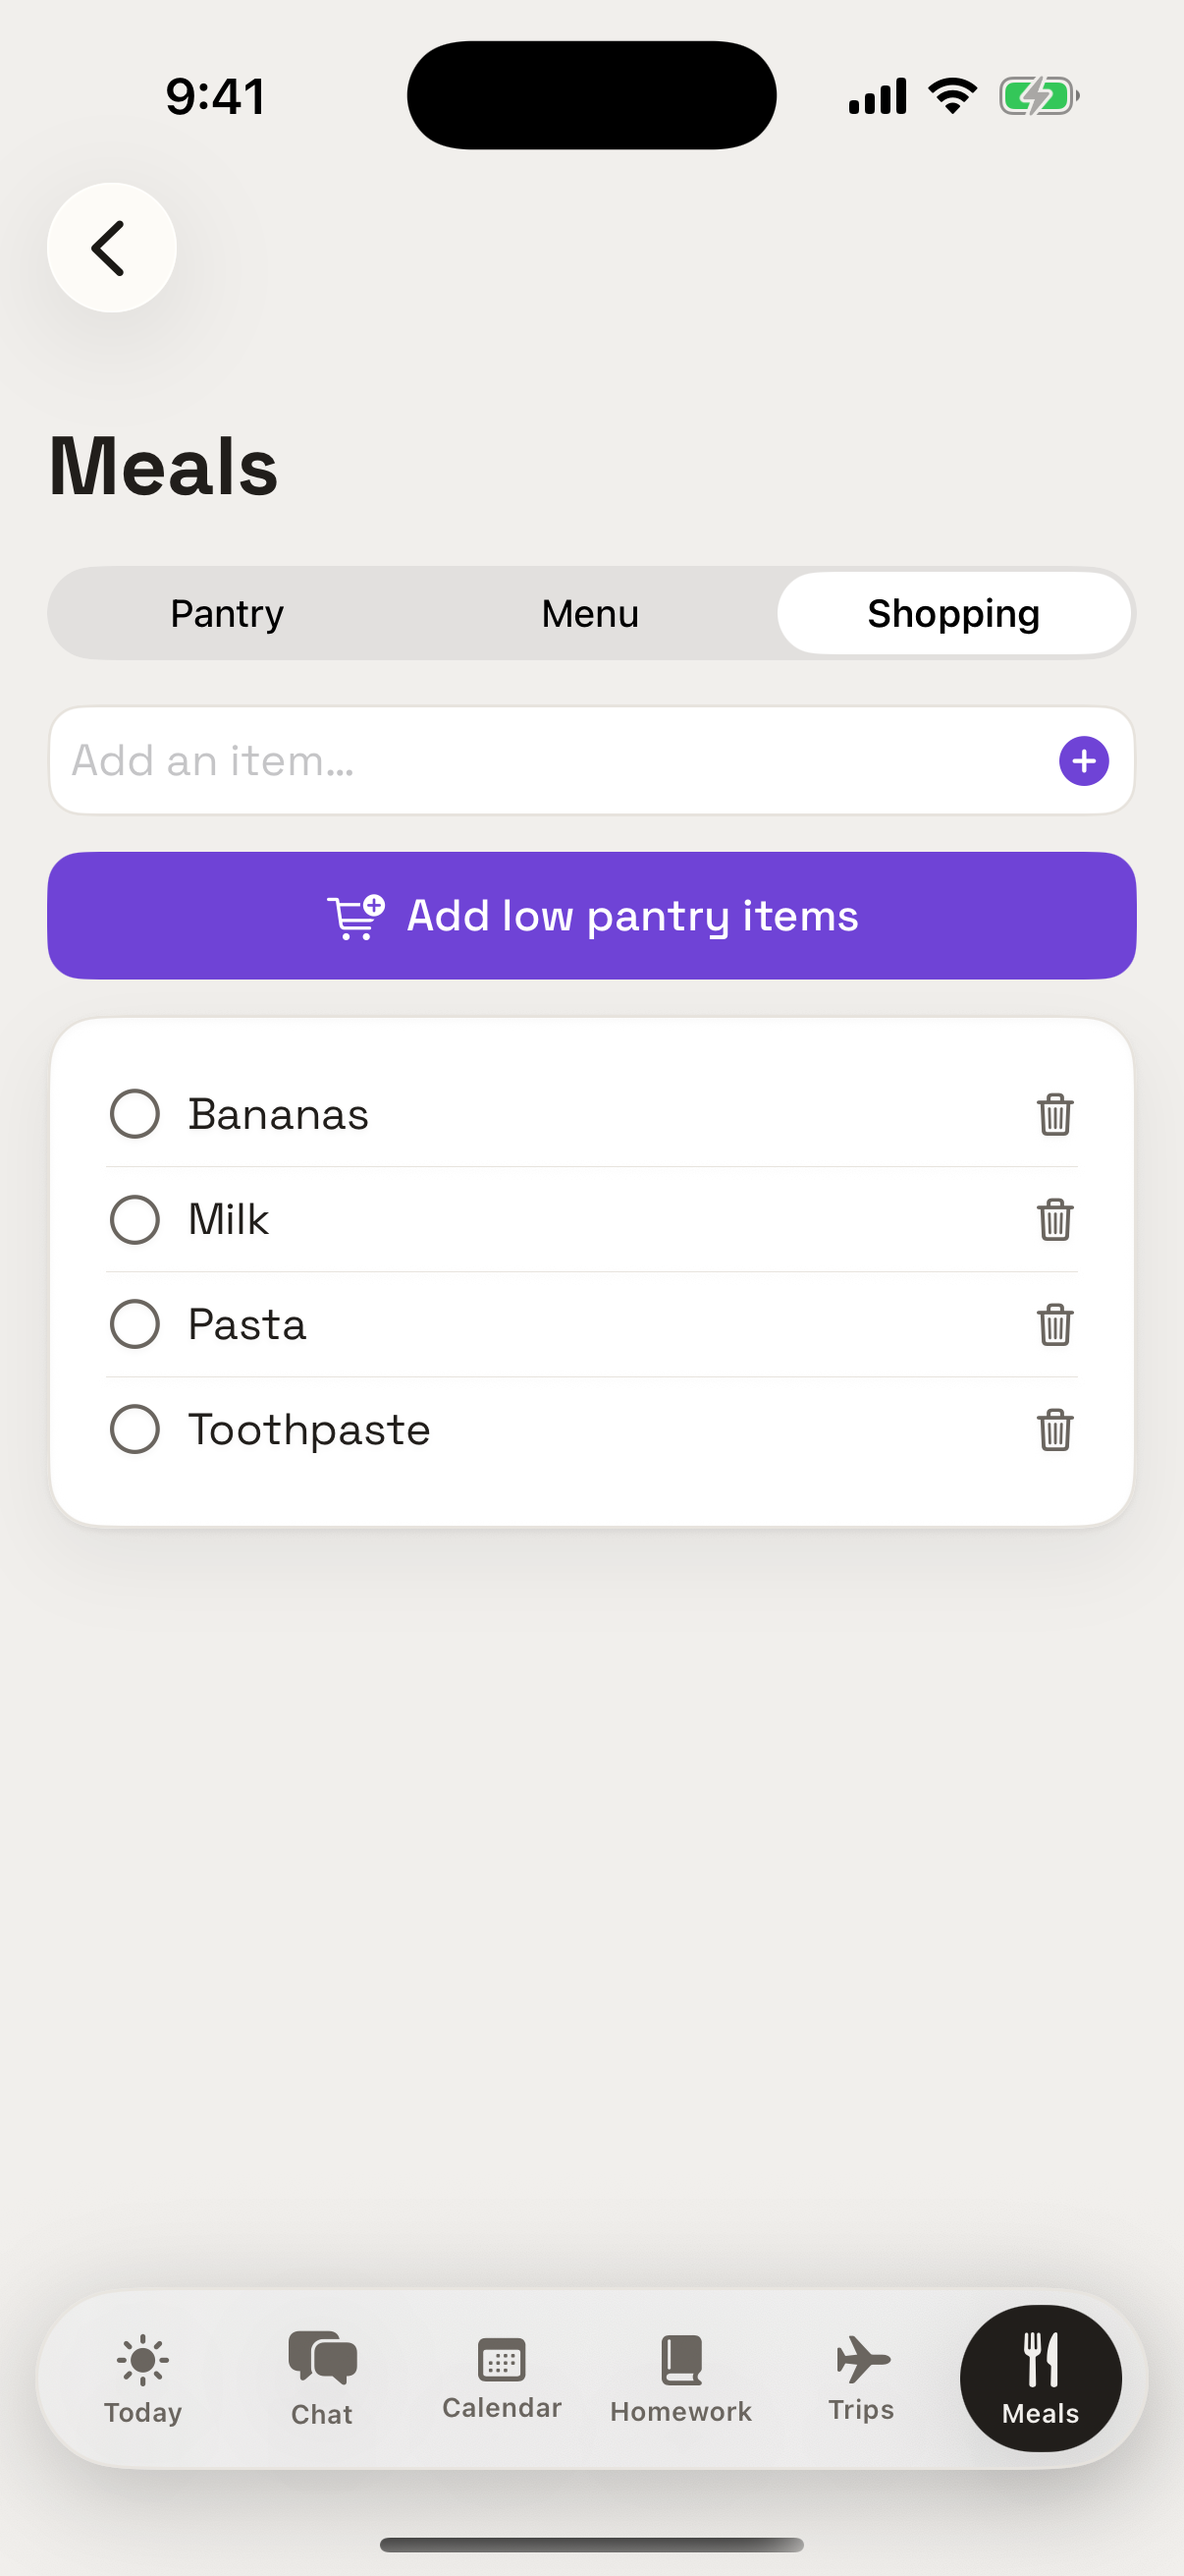
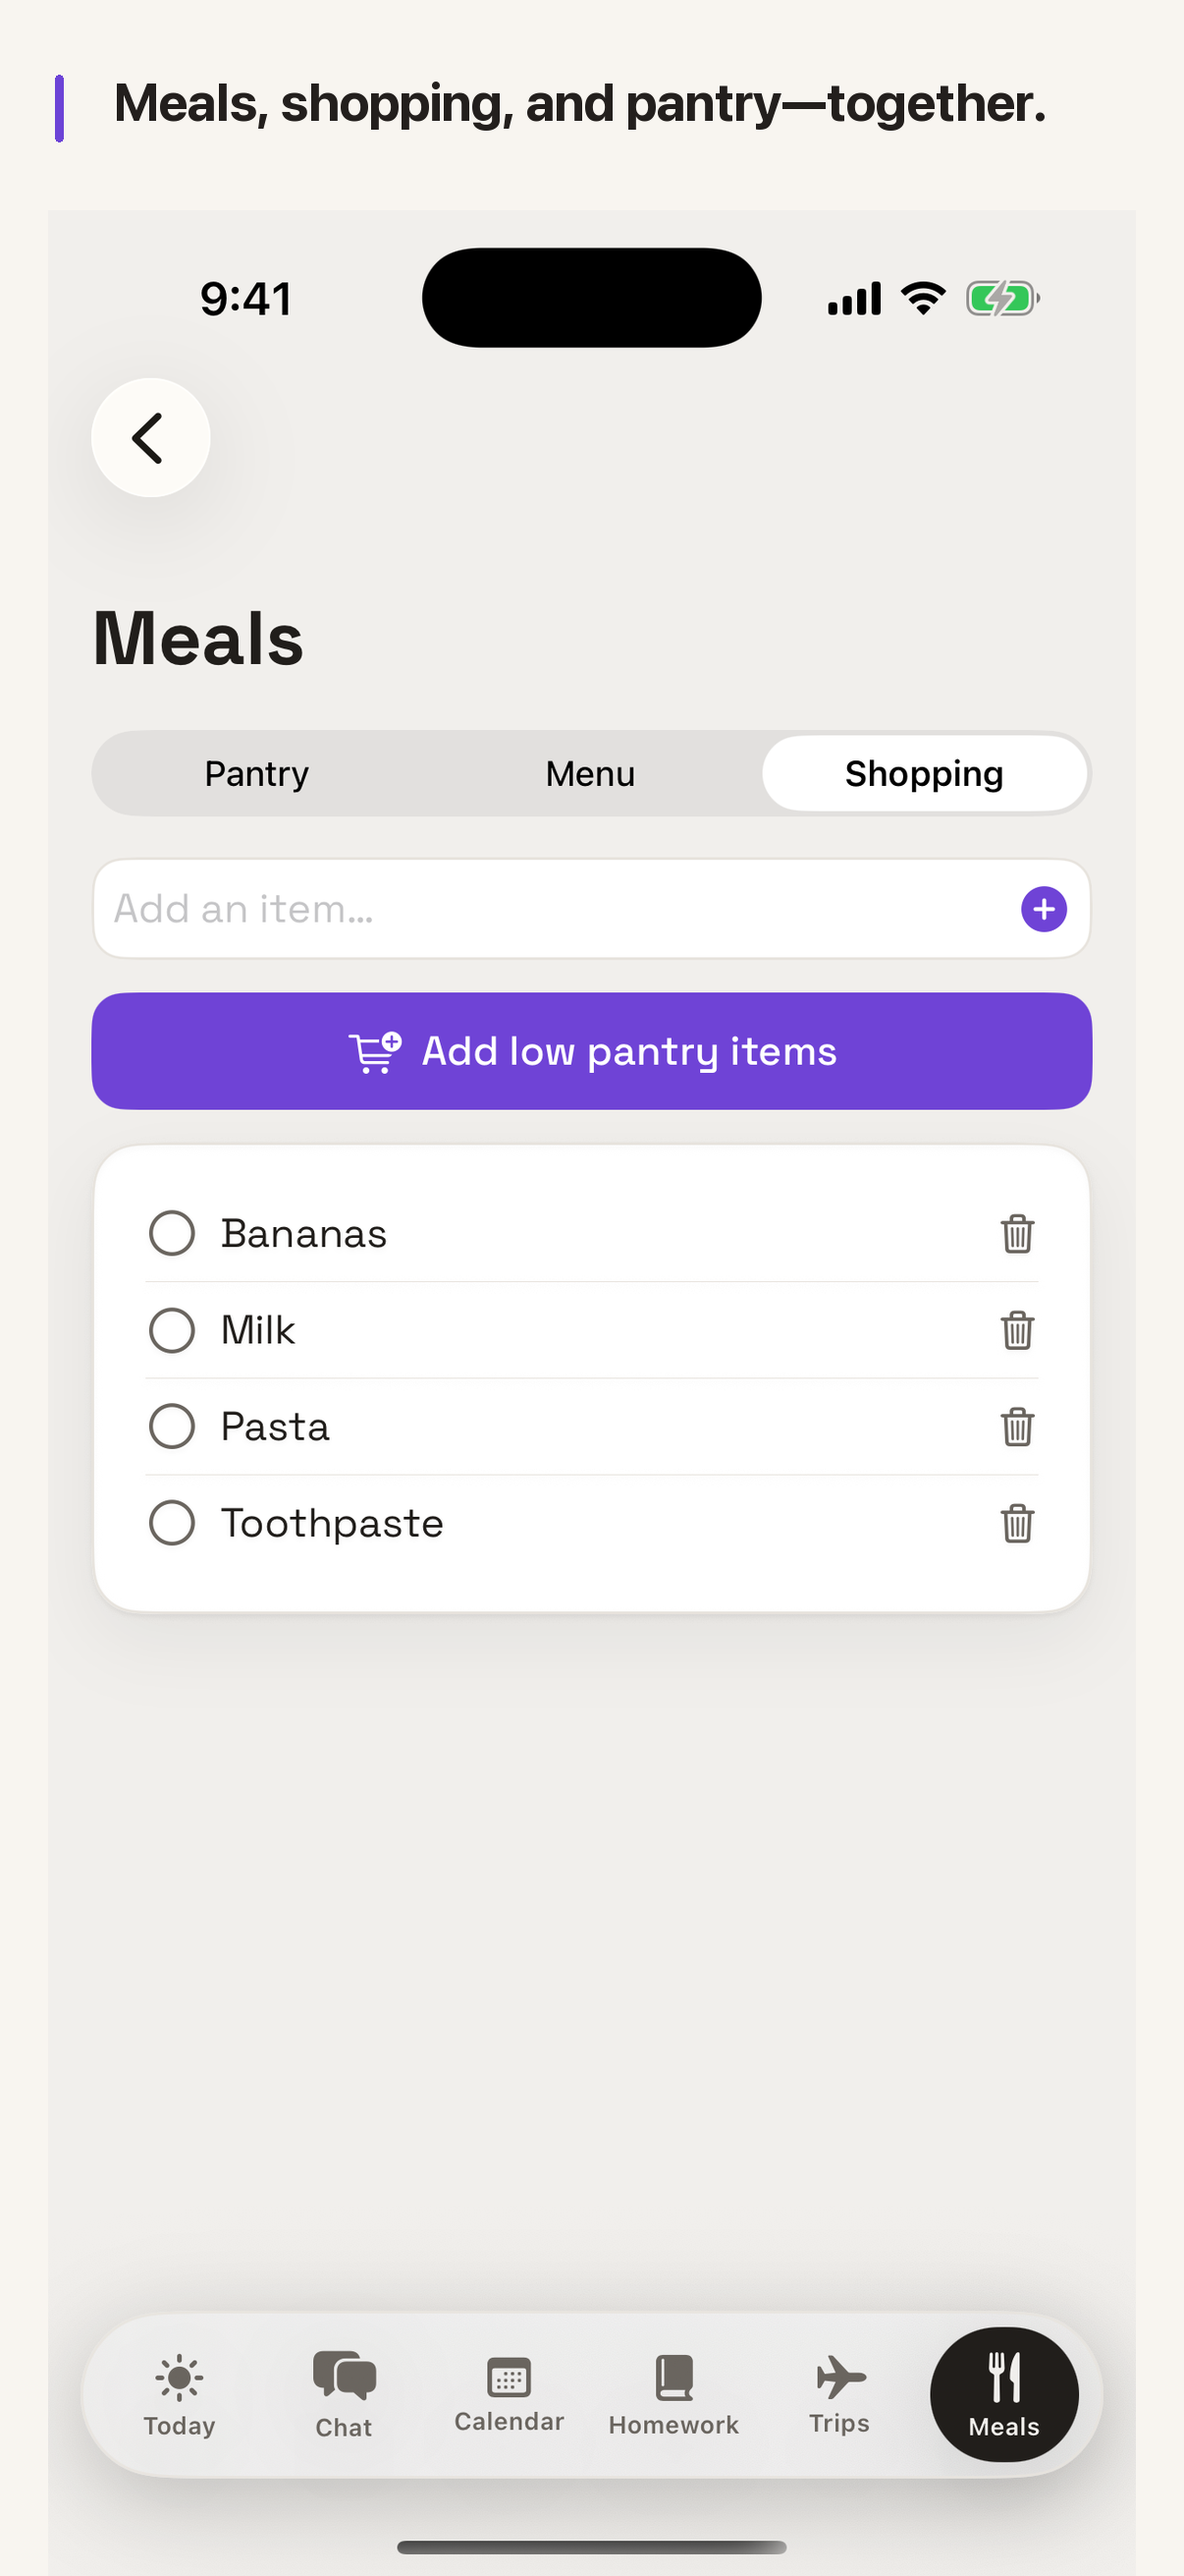
compose App Store screenshots with taglines

diff --git a/AppStoreAssets/QA/manifest.md b/AppStoreAssets/QA/manifest.md
@@ -1,49 +1,82 @@
 # FamETC App Store screenshot manifest
 
-## Capture record
+## Task record
 
-- Capture window: 2026-08-08 23:40–2026-08-09 00:01 ICT (Asia/Bangkok).
-- Repository baseline: `d9266e78c964961a8a1cf5fddd6a6bd0e4e72333` (`main`, synchronized with `origin/main` before capture).
-- Toolchain: Xcode 26.5, build 17F42.
-- Runtimes: iOS 26.5 (23F77) and watchOS 26.5 (23T570).
+- Composition task date: 2026-08-09 (ICT, Asia/Bangkok).
+- Composition starting commit: `b7ec7c8c76c45090813ee0fba6cfa8e038b8d636` (`main`); the worktree was clean before composition.
+- Scope: generated App Store screenshot assets, raw-source preservation, and AppStoreAssets QA evidence only. Product source, Xcode project, server, validators, and unrelated files were not changed.
+- Original capture window: 2026-08-08 23:40–2026-08-09 00:01 ICT (Asia/Bangkok).
+- Original capture baseline: `d9266e78c964961a8a1cf5fddd6a6bd0e4e72333` (`main`, recorded with the accepted raw captures).
+- Toolchain: Xcode 26.5, build 17F42; runtimes iOS 26.5 (23F77) and watchOS 26.5 (23T570).
 - Language: English; orientation: portrait.
-- Apple source: [App Store Connect screenshot specifications](https://developer.apple.com/help/app-store-connect/reference/app-information/screenshot-specifications), checked 2026-08-08. The native simulator sizes below are accepted sizes for the current device classes; Apple requires opaque output and allows one to ten screenshots per localization.
+
+## Current Apple requirements verified
+
+The official Apple sources were checked on 2026-08-09:
+
+- [Screenshot specifications](https://developer.apple.com/help/app-store-connect/reference/app-information/screenshot-specifications) — the selected iPhone 6.3-inch, iPad 13-inch, and Apple Watch Series 11 wells accept the dimensions below; screenshots must be opaque and Apple accepts one to ten screenshots.
+- [Upload app previews and screenshots](https://developer.apple.com/help/app-store-connect/manage-app-information/upload-app-previews-and-screenshots) — upload and ordering guidance.
+- [App Review Guidelines](https://developer.apple.com/app-store/review/guidelines/) — truthful product presentation and privacy review.
 
 ## Devices and dimensions
 
-| Platform | Simulator | UDID | Final dimensions | Count |
+| Platform | Simulator | UDID | Upload dimensions | Count |
 | --- | --- | --- | ---: | ---: |
 | iPhone | iPhone 17 Pro | `2E9EDCE7-0D8A-4A97-AB1A-F0C90C497954` | 1206 × 2622 | 4 |
 | iPad | iPad Pro 13-inch (M5) | `497C0B29-EF98-4835-9DF0-A5BAB2AD3318` | 2064 × 2752 | 4 |
 | watchOS | Apple Watch Series 11 (46mm) | `D3114908-7653-457F-A5CF-E315D071245F` | 416 × 496 | 3 |
 
-All final files are direct simulator screenshots with no crop, resize, or aspect-ratio change. `simctl` emitted RGBA PNGs; the final files were converted to opaque 8-bit RGB PNGs without resizing.
+The upload directories contain only the composed PNGs. Every composed canvas is opaque 8-bit RGB at the exact target dimensions. The source app frame is fitted with contain semantics below the tagline; it is never cropped, covered, stretched, or otherwise edited. The raw simulator captures remain available at the paths in the next section.
 
-## Final upload sets
+## Raw source preservation
+
+The accepted raw captures were copied before composition and are preserved byte-for-byte here:
+
+- iPhone source set: `AppStoreAssets/Raw/iPhone/6.3-inch/`
+- iPad source set: `AppStoreAssets/Raw/iPad/13-inch/`
+- watchOS source set: `AppStoreAssets/Raw/watchOS/Series11/`
+
+Each raw file has the same SHA-256 as its pre-composition upload-directory predecessor. The final files are derived from these raw frames by a contain fit only, with the original pixels retained in the preserved source set.
+
+## Composition system
+
+- Canvas background: warm off-white `#F8F5F0`.
+- Tagline: dark `#231F1D`, SF system font (`SFNS.ttf`) at variable weight 700, left aligned with a purple `#6C43D6` vertical accent.
+- The authentic app screenshot occupies the lower canvas and is centered horizontally. Text is above it with a dedicated margin; watchOS taglines use a necessary two-line wrap for the 416 × 496 well.
+
+| Platform | Raw frame | Contain-fit frame | Scale | Position in final canvas |
+| --- | ---: | ---: | ---: | ---: |
+| iPhone | 1206 × 2622 | 1108 × 2408 | 0.918383 | x=49, y=214 |
+| iPad | 2064 × 2752 | 1893 × 2524 | 0.917151 | x=85, y=228 |
+| watchOS | 416 × 496 | 350 × 417 | 0.840726 | x=33, y=79 |
+
+## Final upload sets and locked taglines
 
 ### iPhone — `AppStoreAssets/iPhone/6.3-inch/`
 
-- `01-today.png` — Today overview: family actions, schedule, homework due, and Daily 5.
-- `02-calendar.png` — Calendar month view with pickup, homework, meal, and library event.
-- `03-shopping.png` — Meals → Shopping with the four-item family list.
-- `04-chat.png` — Family Chat with homework, pickup, dinner, and shopping coordination.
+- `01-today.png` — “Everything your family needs. Right now.”
+- `02-calendar.png` — “See the whole family week at a glance.”
+- `03-shopping.png` — “Meals, shopping, and pantry—together.”
+- `04-chat.png` — “Turn family chat into a plan.”
 
 ### iPad — `AppStoreAssets/iPad/13-inch/`
 
-- `01-today.png` — Today overview in the iPad navigation rail layout.
-- `02-calendar.png` — Calendar month view with the seeded family schedule.
-- `03-shopping.png` — Meals → Shopping with the four-item family list.
-- `04-chat.png` — Authentic portrait Chat slide-over over the Today surface.
+- `01-today.png` — “One calm place to run the family.”
+- `02-calendar.png` — “The family calendar, without the juggling.”
+- `03-shopping.png` — “From menu to shopping list, in one place.”
+- `04-chat.png` — “Everyone stays in the loop.”
 
 ### watchOS — `AppStoreAssets/watchOS/Series11/`
 
-- `01-my-next-urgent.png` — My next top position with connection status and Urgent actions.
-- `02-homework.png` — My next scroll position centered on both homework items.
-- `03-shopping.png` — My next scroll position centered on the Shopping section.
+- `01-my-next-urgent.png` — “The next important thing, at a glance.”
+- `02-homework.png` — “Homework reminders, right when they matter.”
+- `03-shopping.png` — “Carry the family list on your wrist.”
 
-The shipped iOS Homework tab is currently a placeholder; the iPhone/iPad narrative uses the real Today Homework due card and real Calendar/Chat/Shopping surfaces instead. The watch screenshots use the shipped My next, Urgent, Homework, and Shopping sections.
+The watchOS strings are line-wrapped only at word boundaries in the rendered 416 × 496 canvases; the locked wording is unchanged. The iPhone and iPad taglines render on one line.
 
-## Privacy-safe fixture
+The iOS Homework tab is currently a placeholder, so the iPhone/iPad narrative uses the real Today Homework due card and real Calendar, Chat, and Shopping surfaces. The watch screenshots use the shipped My next, Urgent, Homework, and Shopping sections.
+
+## Privacy-safe source fixture and provenance
 
 The simulator-only local fixture was stored outside the repository at `/tmp/fametc-appstore-qa-data` and served only from `http://127.0.0.1:4100` / `http://localhost:4100`. It used generic fictional content:
 
@@ -54,23 +87,16 @@ The simulator-only local fixture was stored outside the repository at `/tmp/fame
 - Generic coordination: `School pickup`, `Library books due`, `Pasta night`, and non-personal family chat messages.
 - Fixture dates were anchored to 2026-08-08 so the narrative remained deterministic.
 
-The final watch screenshots were captured from the original watch target source after pairing through its shipped pairing screen with a local development pairing code. The watch target was generated from the existing `ios/project.yml` into `/tmp/FamETC-AppStore-WatchProject` and built ad-hoc for the watch simulator; no repository project or source file was changed. Temporary helper/diagnostic builds used during simulator provisioning were outside the repository and did not contribute final images.
-
-## Build and capture evidence
-
-- iOS build: existing `ios/FamETC.xcodeproj`, scheme `FamETC`, Debug, destination iPhone 17 Pro; build succeeded and the resulting app was installed on both the iPhone and iPad simulators.
-- watch build: temporary XcodeGen project generated from `ios/project.yml`, scheme `FamETCWatch`, Debug, destination Series 11; build succeeded and the signed target was paired and refreshed against the local fixture API.
-- Screenshot source: `xcrun simctl io <UDID> screenshot <path>`.
-- Final conversion: Pillow `RGBA → RGB`, preserving native dimensions and pixel content.
+The raw source captures were produced with `xcrun simctl io <UDID> screenshot <path>` from the accepted simulator builds. The watch source came from the original watch target after pairing through its shipped pairing screen with a local development pairing code. No repository project or source file was changed for capture or composition.
 
 ## QA outputs
 
-- `iPhone-validation.json` — `ok: true`, 4 screenshots, no errors.
-- `iPad-validation.json` — `ok: true`, 4 screenshots, no errors.
-- `watchOS-validation.json` — `ok: true`, 3 screenshots, no errors.
-- `iPhone-contact-sheet.jpg`, `iPad-contact-sheet.jpg`, and `watchOS-contact-sheet.jpg` — deterministic contact sheets used for visual QA.
+- `AppStoreAssets/QA/iPhone-validation.json` — exact-dimension validator, 4 screenshots, `ok: true`, zero errors and warnings.
+- `AppStoreAssets/QA/iPad-validation.json` — exact-dimension validator, 4 screenshots, `ok: true`, zero errors and warnings.
+- `AppStoreAssets/QA/watchOS-validation.json` — exact-dimension validator, 3 screenshots, `ok: true`, zero errors and warnings.
+- `AppStoreAssets/QA/iPhone-contact-sheet.jpg`, `iPad-contact-sheet.jpg`, and `watchOS-contact-sheet.jpg` — regenerated deterministic contact sheets for visual QA.
 
-Validation commands (the validator prints JSON, so stdout was redirected to the corresponding QA file):
+Validation commands:
 
 ```sh
 python3 /Users/kamatbot/.codex/skills/build-app-store-assets/scripts/validate_screenshots.py --width 1206 --height 2622 --json AppStoreAssets/iPhone/6.3-inch/ > AppStoreAssets/QA/iPhone-validation.json
@@ -81,4 +107,4 @@ python3 /Users/kamatbot/.codex/skills/build-app-store-assets/scripts/make_contac
 python3 /Users/kamatbot/.codex/skills/build-app-store-assets/scripts/make_contact_sheet.py --force --output AppStoreAssets/QA/watchOS-contact-sheet.jpg AppStoreAssets/watchOS/Series11/
 ```
 
-Visual QA checked the original-detail frames and contact sheets for clipping, duplicate frames, fake overlays, unsupported claims, and privacy leaks. No App Store Connect or Apple Developer Portal upload was performed. No commit was created.
+Original-detail and contact-sheet review checked tagline clipping and contrast, source-frame visibility, aspect-ratio preservation, privacy, duplicate frames, fake overlays, and unsupported claims. No App Store Connect or Apple Developer Portal upload was performed. No commit was created.
